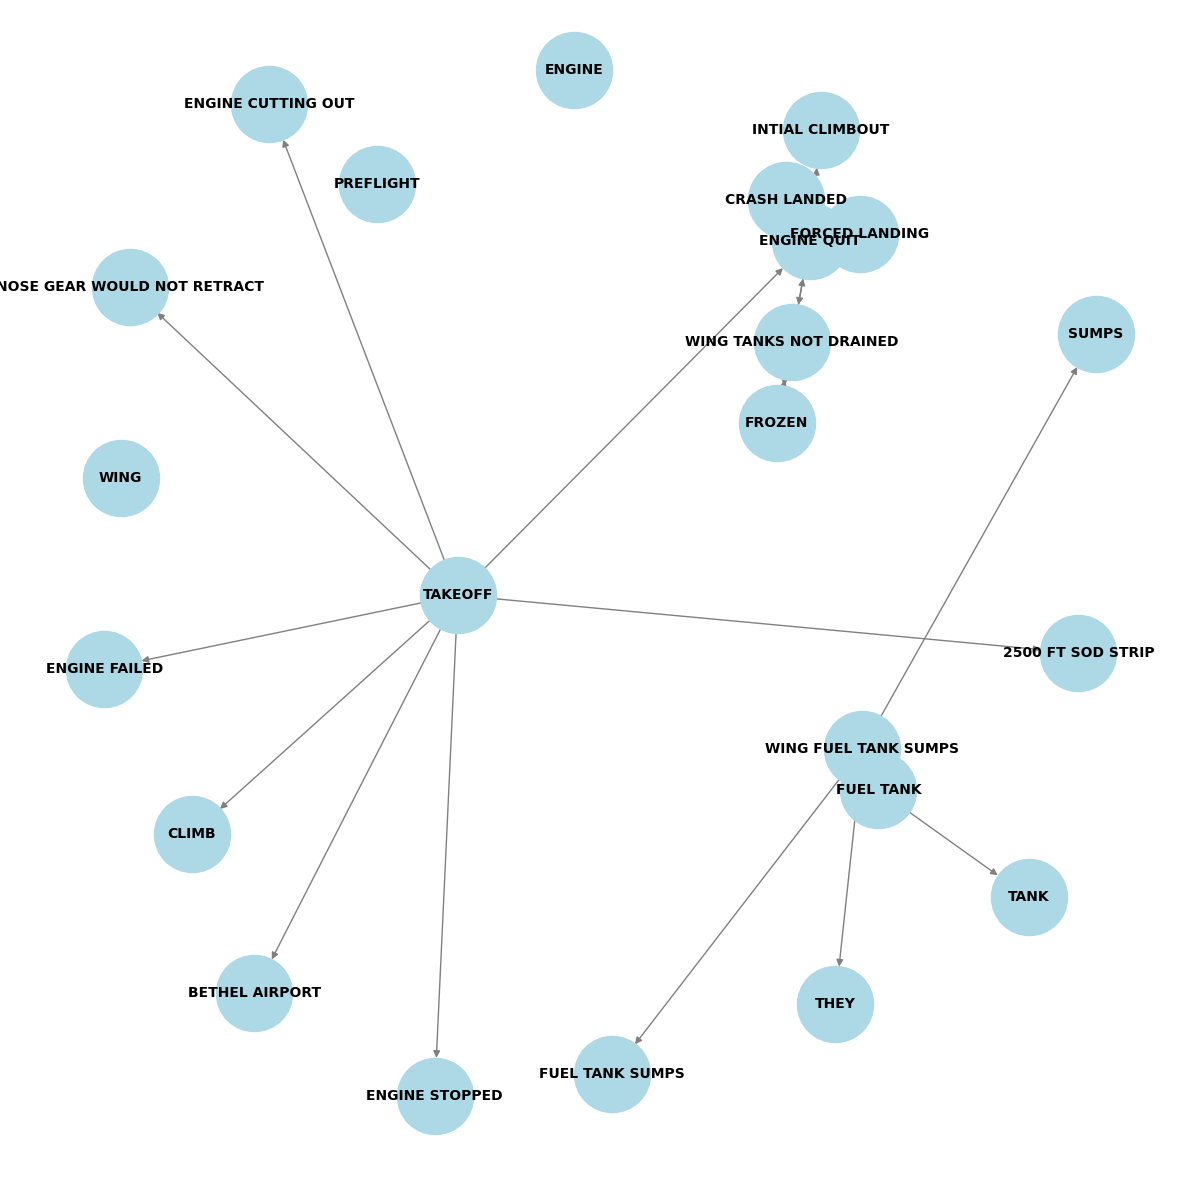
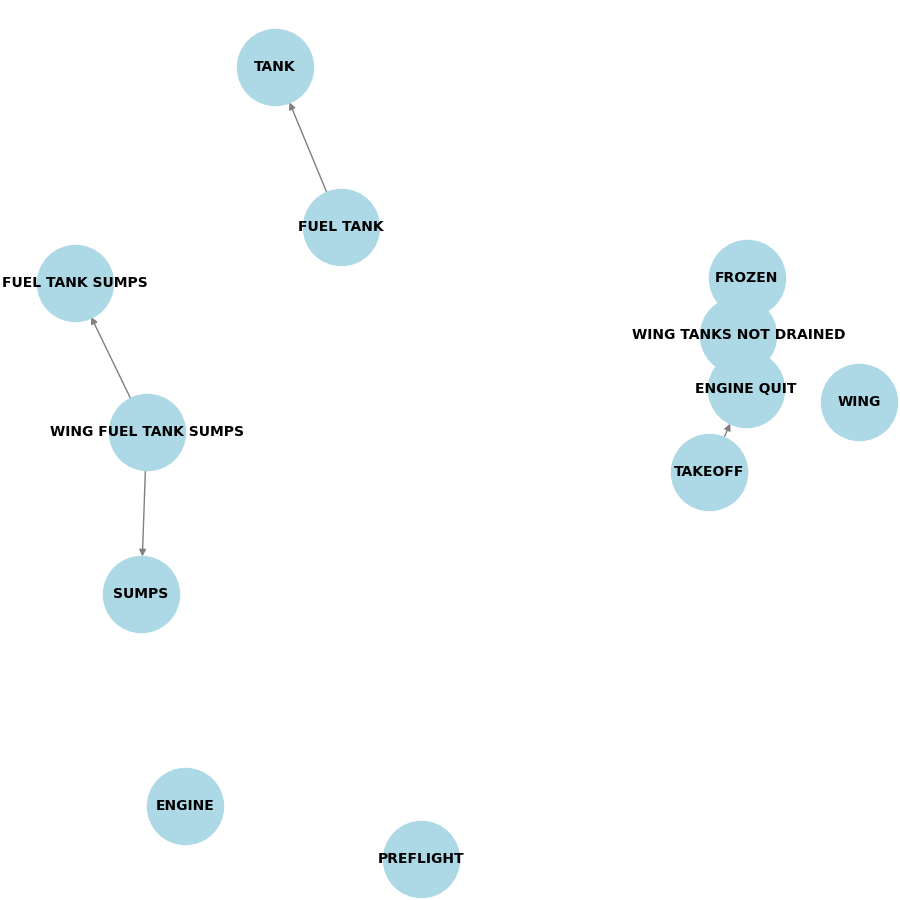
fix graph for sentance

diff --git a/keo/kg/visualize_sentance.py b/keo/kg/visualize_sentance.py
@@ -5,38 +5,23 @@ import matplotlib.pyplot as plt
 def load_graph_from_gml(file_path):
     return nx.read_gml(file_path)
 
-# Extract subgraph based on a specific incident ID and type of extraction (strict or loose)
-def extract_subgraph_by_incident(graph, incident_id, extraction_type="strict"):
+# Extract subgraph based on a specific incident ID (both strict and loose behave the same)
+def extract_subgraph_by_incident(graph, incident_id):
     nodes_to_include = set()
-    edges_to_include = []
 
-    for node in graph.nodes(data=True):
-        # If the node's incident_ids contains the incident_id, include the node
-        if 'incident_ids' in node[1]:
-            if incident_id in node[1]['incident_ids']:
-                nodes_to_include.add(node[0])
-                # Collect edges connected to this node
-                for neighbor in graph.neighbors(node[0]):
-                    edges_to_include.append((node[0], neighbor))
-    
-    if extraction_type == "loose":
-        # For loose extraction, include neighbors of nodes already marked
-        loose_nodes_to_include = set(nodes_to_include)
-        for node in nodes_to_include:
-            for neighbor in graph.neighbors(node):
-                loose_nodes_to_include.add(neighbor)
-        
-        nodes_to_include = loose_nodes_to_include
-    
-    # Create a subgraph with the selected nodes and edges
+    # Loop through all nodes and include those that are directly related to the incident_id
+    for node, data in graph.nodes(data=True):
+        if 'incident_ids' in data and incident_id in data['incident_ids']:
+            nodes_to_include.add(node)
+
+    # Create a subgraph with the selected nodes
     subgraph = graph.subgraph(nodes_to_include).copy()
-    subgraph.add_edges_from(edges_to_include)
     
     return subgraph
 
 # Visualize and save the subgraph as a PNG file
-def visualize_and_save_subgraph(subgraph, output_file, incident_id, extraction_type):
-    plt.figure(figsize=(12, 12))
+def visualize_and_save_subgraph(subgraph, output_file, incident_id):
+    plt.figure(figsize=(9, 9))
     pos = nx.spring_layout(subgraph, seed=42)  # Position nodes using spring layout
     
     # Draw nodes and edges
@@ -51,7 +36,7 @@ def visualize_and_save_subgraph(subgraph, output_file, incident_id, extraction_t
     if edge_labels:
         nx.draw_networkx_edge_labels(subgraph, pos, edge_labels=edge_labels, font_size=10, font_weight='bold', font_color='red')
     
-    plt.title(f"Subgraph for Incident ID '{incident_id}' ({extraction_type.capitalize()} Extraction)", fontsize=16)
+    plt.title(f"Subgraph for Incident ID '{incident_id}'", fontsize=18)
     
     # Save the plot as PNG
     plt.savefig(output_file, format="PNG")
@@ -63,7 +48,7 @@ def main():
     gml_file_strict = 'knowledge_graph_strict.gml'
     gml_file_loose = 'knowledge_graph_loose.gml'
     
-    # Load the graphs
+    # Load the graphs (both behave the same way)
     graph_strict = load_graph_from_gml(gml_file_strict)
     graph_loose = load_graph_from_gml(gml_file_loose)
     
@@ -74,15 +59,14 @@ def main():
     strict_output_file = f'subgraph_strict_{incident_id}.png'
     loose_output_file = f'subgraph_loose_{incident_id}.png'
     
-    # Extract the subgraph related to the incident ID (strict) from the strict GML file
-    strict_subgraph = extract_subgraph_by_incident(graph_strict, incident_id, extraction_type="strict")
-    visualize_and_save_subgraph(strict_subgraph, strict_output_file, incident_id, extraction_type="strict")
-    print(f"Strict subgraph for incident ID '{incident_id}' saved as {strict_output_file}")
+    # Extract the subgraph related to the incident ID (same extraction logic for both files)
+    strict_subgraph = extract_subgraph_by_incident(graph_strict, incident_id)
+    visualize_and_save_subgraph(strict_subgraph, strict_output_file, incident_id)
+    print(f"Subgraph for incident ID '{incident_id}' from strict file saved as {strict_output_file}")
     
-    # Extract the subgraph related to the incident ID (loose) from the loose GML file
-    loose_subgraph = extract_subgraph_by_incident(graph_loose, incident_id, extraction_type="loose")
-    visualize_and_save_subgraph(loose_subgraph, loose_output_file, incident_id, extraction_type="loose")
-    print(f"Loose subgraph for incident ID '{incident_id}' saved as {loose_output_file}")
+    loose_subgraph = extract_subgraph_by_incident(graph_loose, incident_id)
+    visualize_and_save_subgraph(loose_subgraph, loose_output_file, incident_id)
+    print(f"Subgraph for incident ID '{incident_id}' from loose file saved as {loose_output_file}")
 
 if __name__ == "__main__":
     main()
